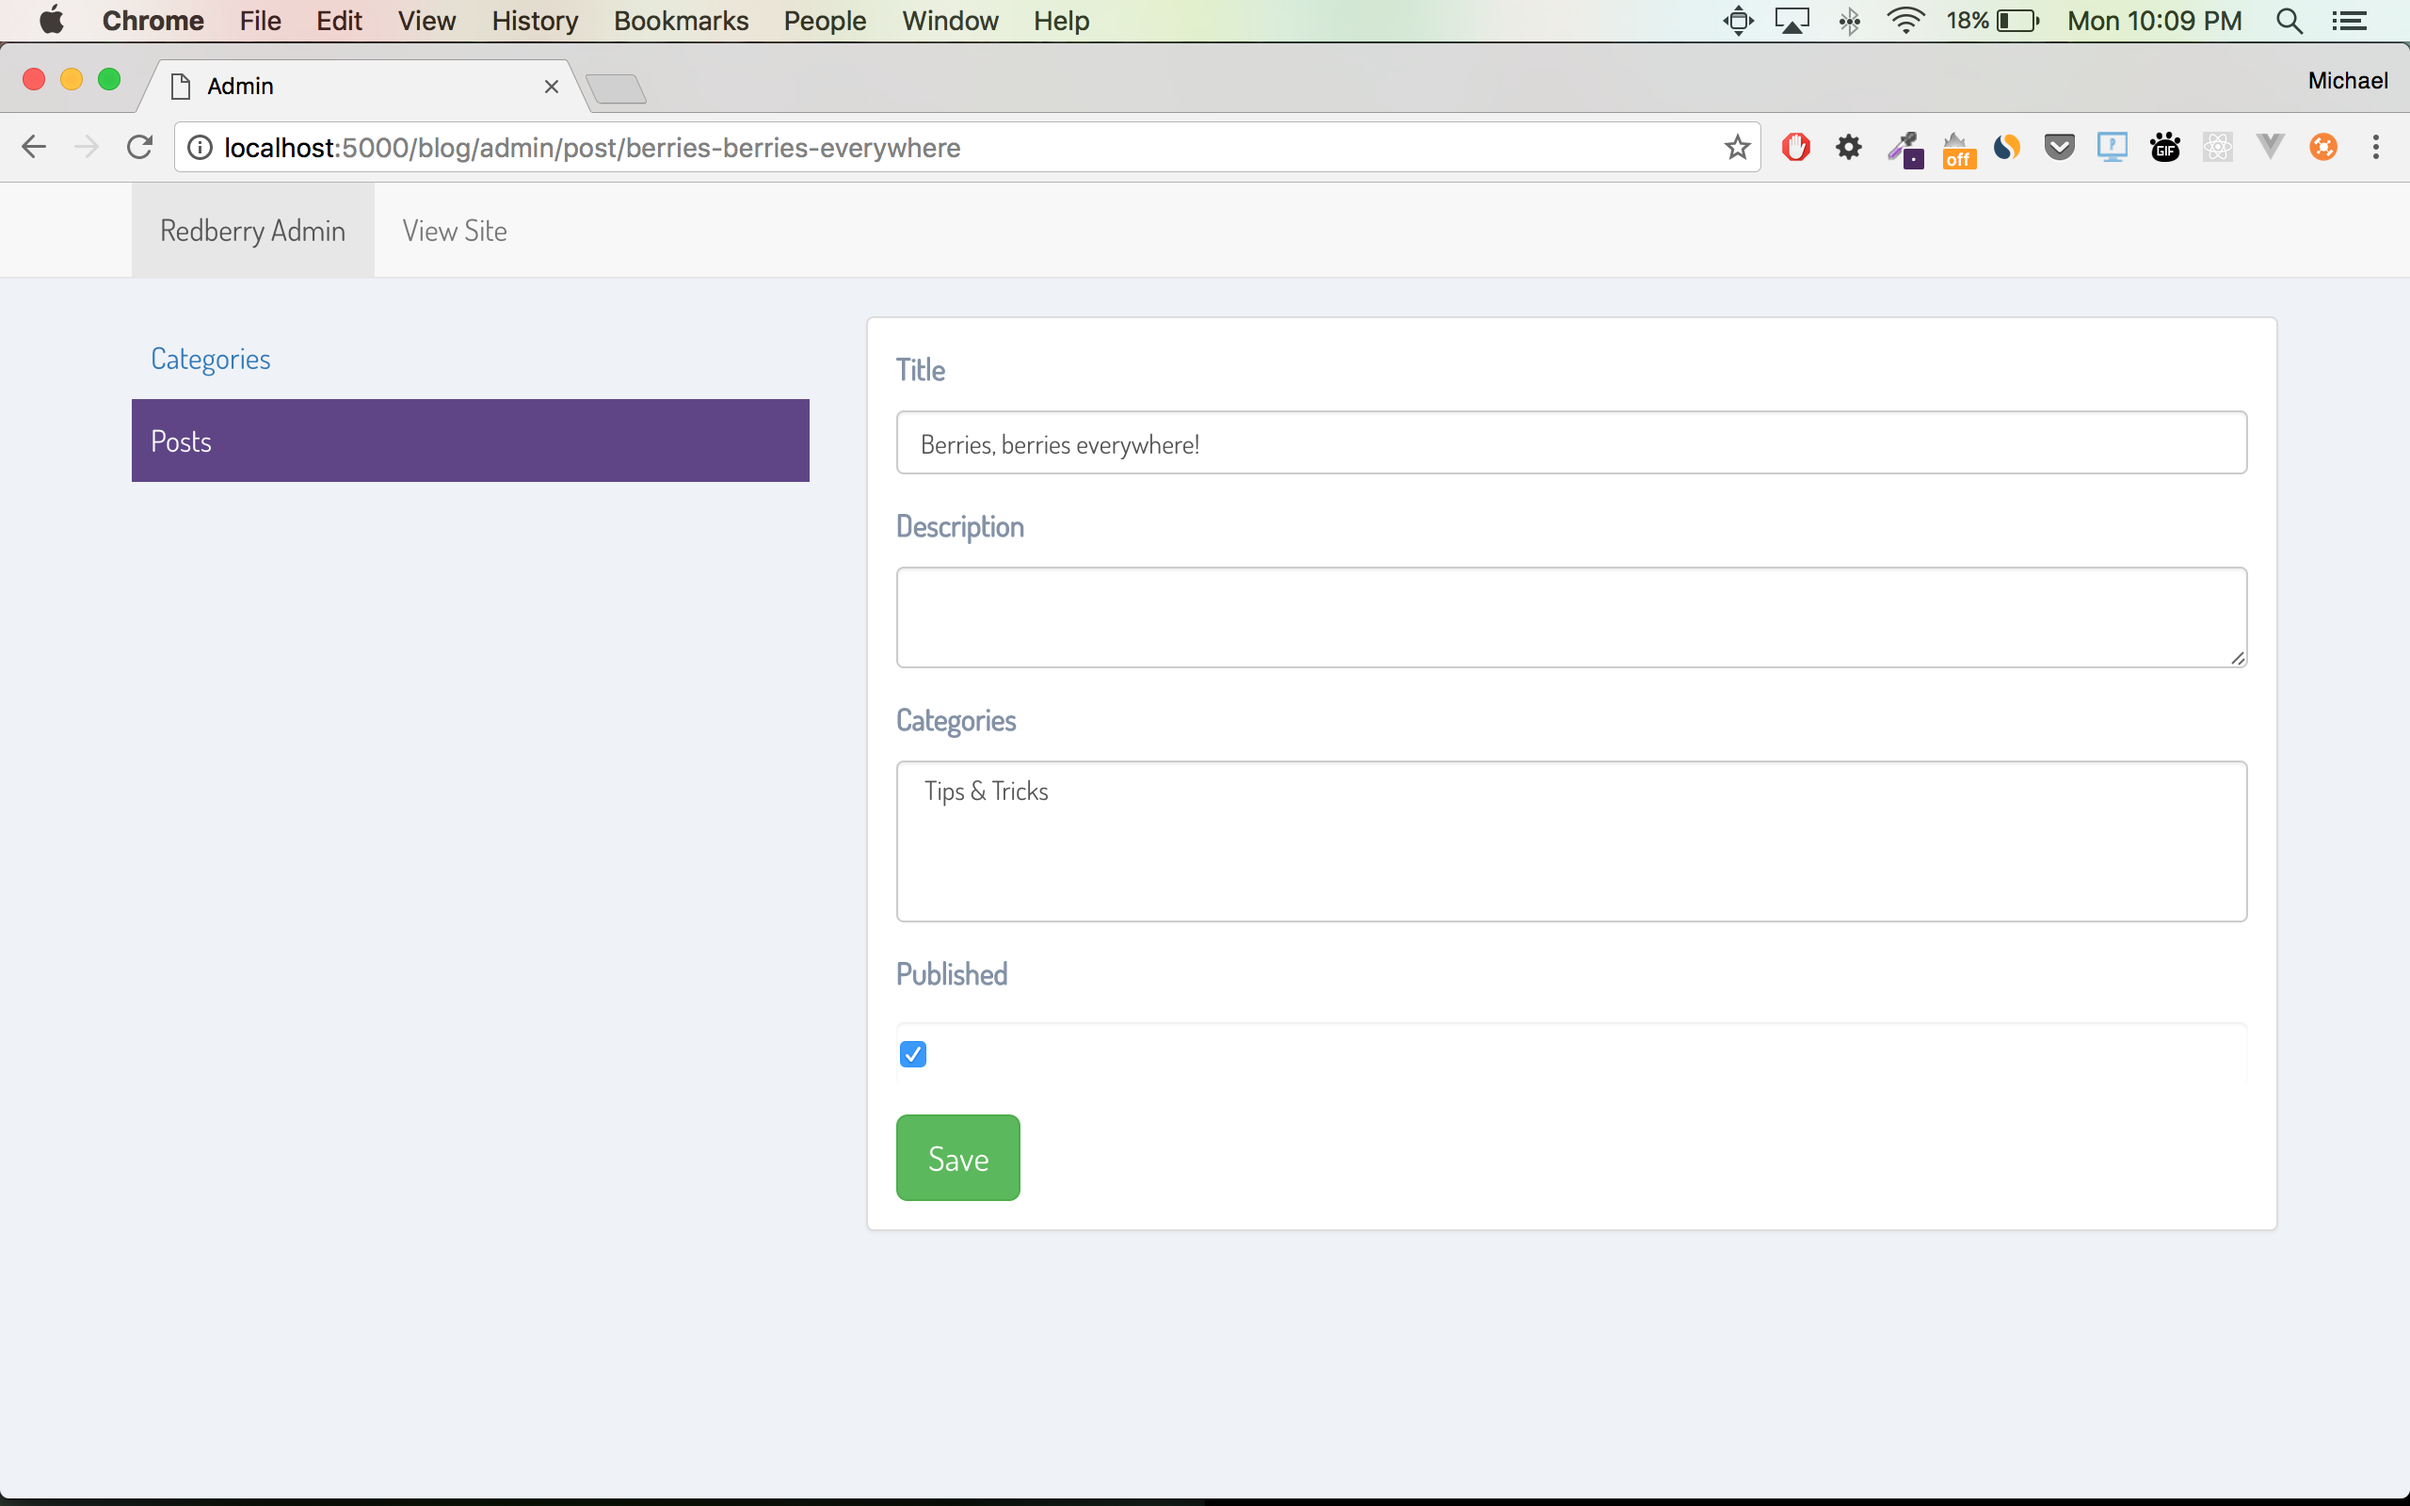
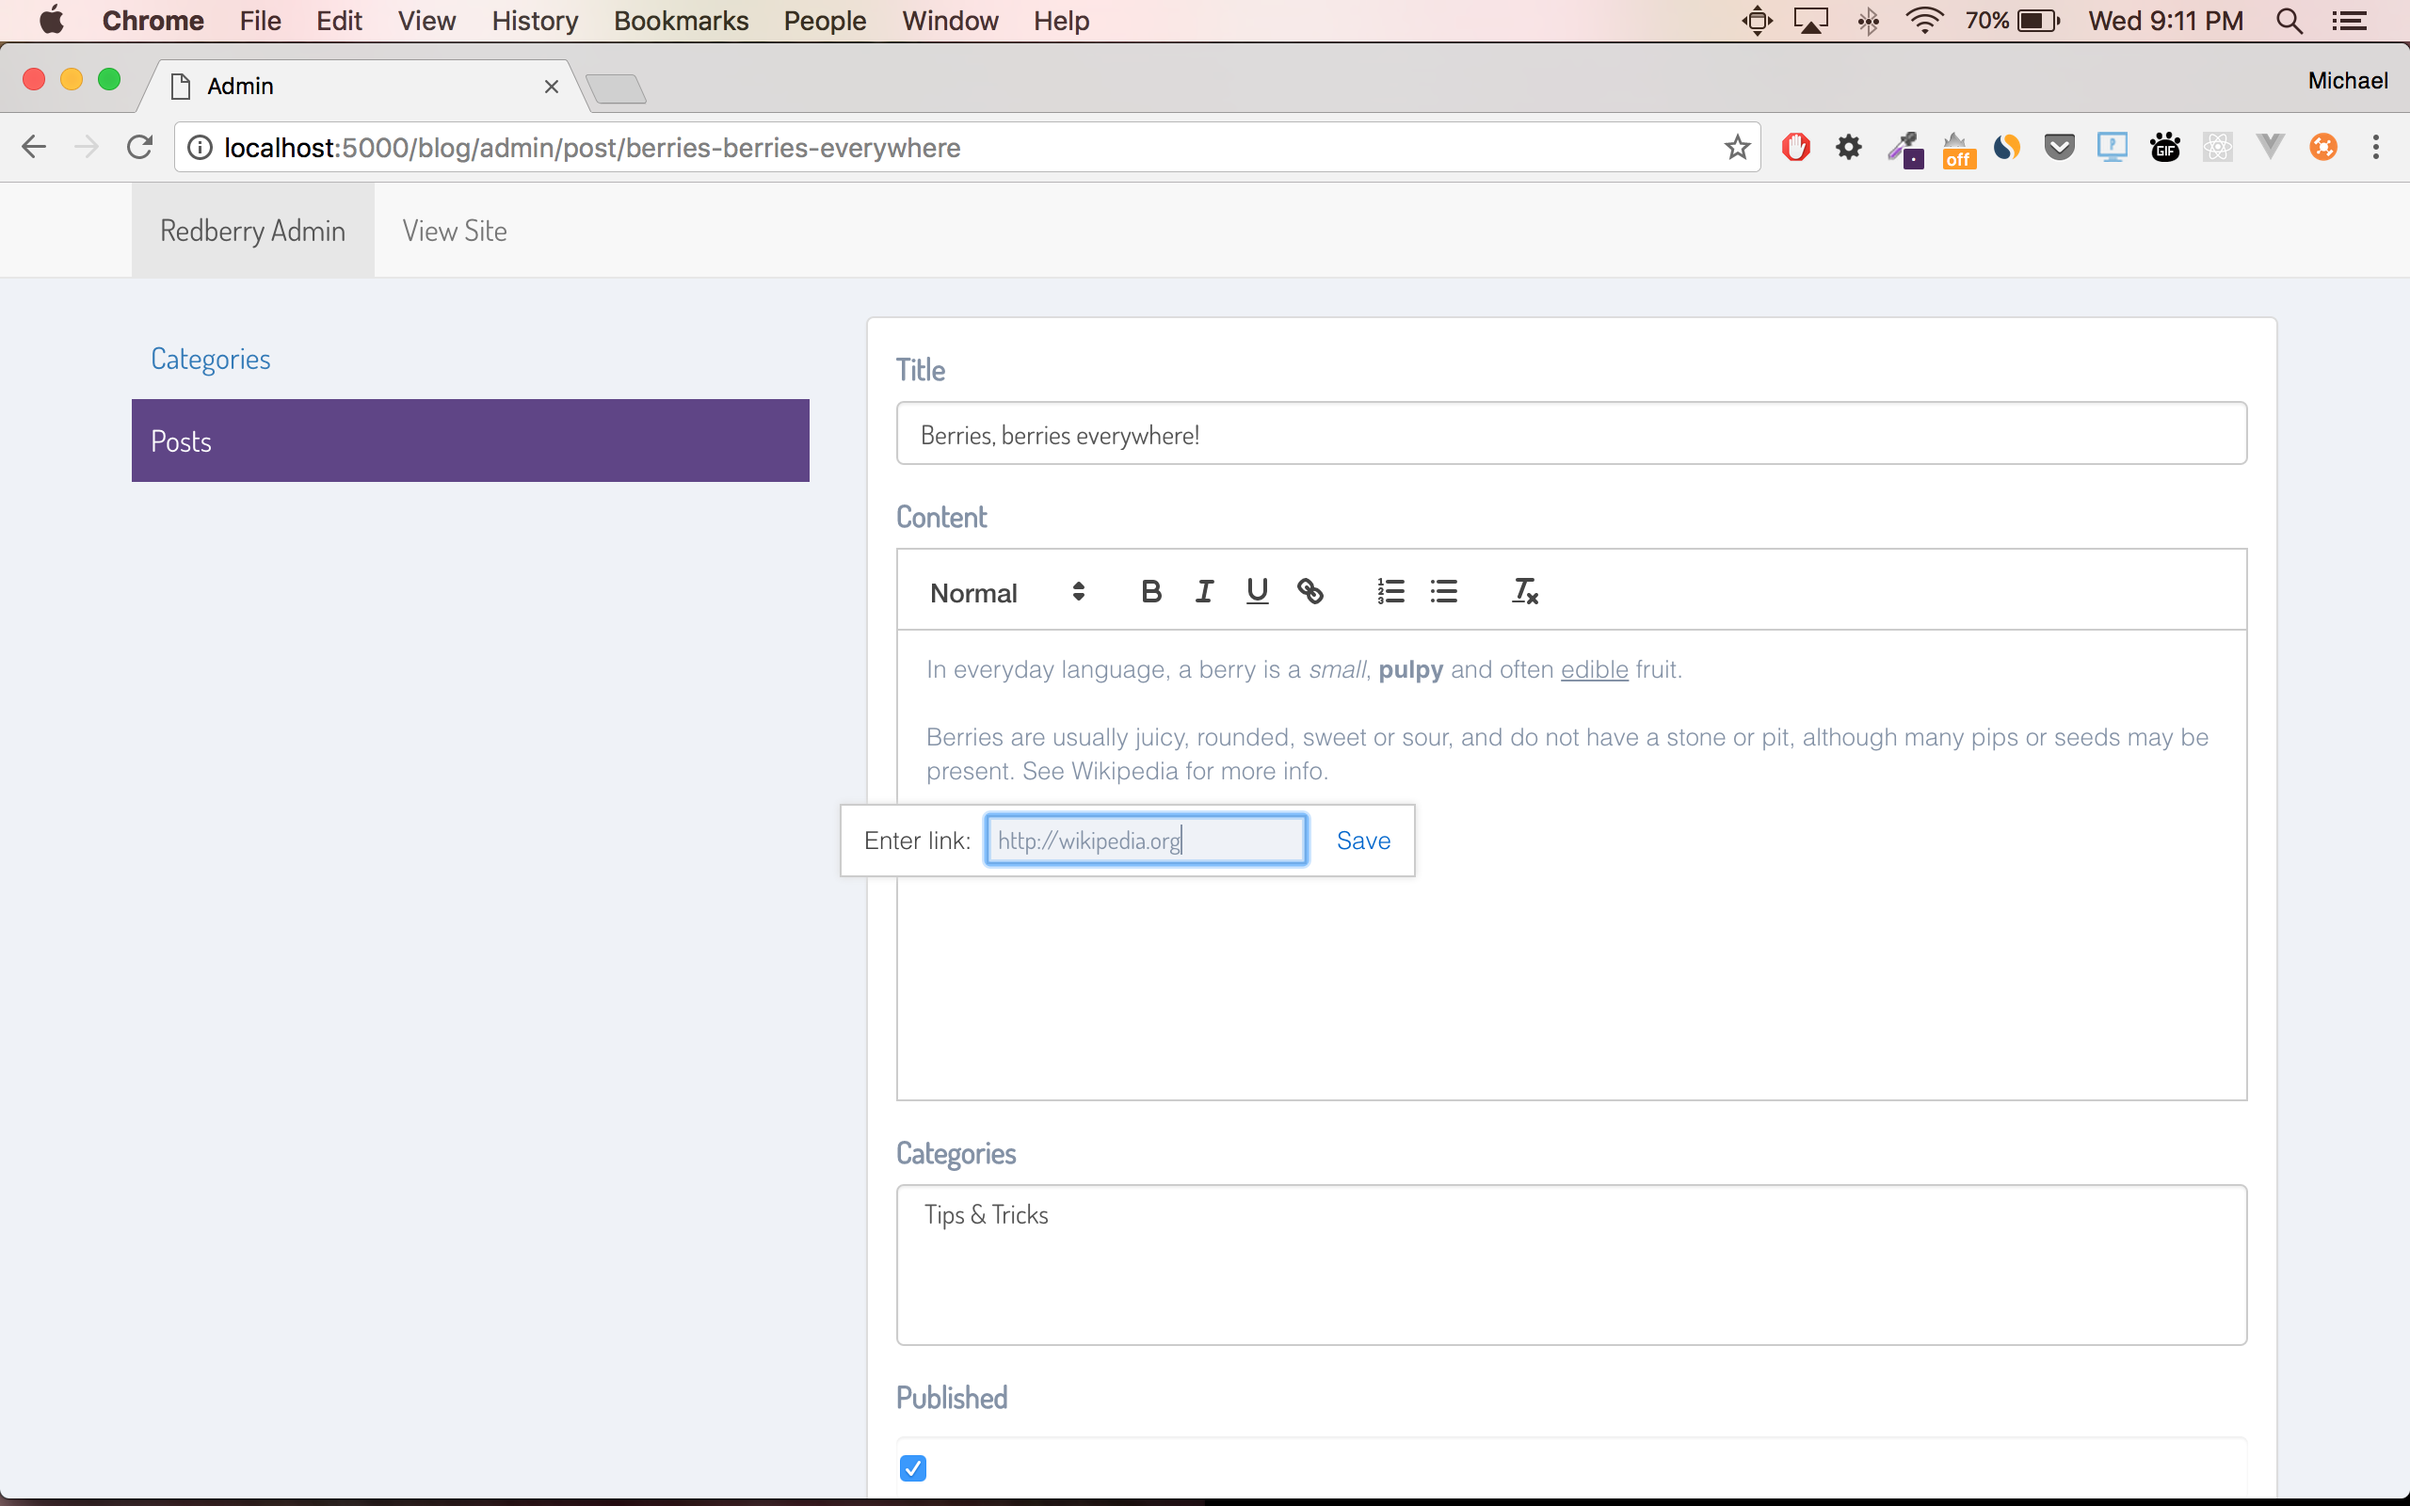
Update documentation.

diff --git a/README.md b/README.md
@@ -7,8 +7,9 @@ It is intended to be registered into an existing Flask app, not as a standalone 
 - Start using Redberry in your Flask app in 3 lines
 - Display posts and categories
 - Create, update, and delete in the included admin panel
+- Includes rich text editor
 - Customizable templates
-- Built with Bootstrap for easy modification
+- Built with Bootstrap for easy modification, and mobile-optimized / responsive
 
 ## Installation
 `pip install redberry`
